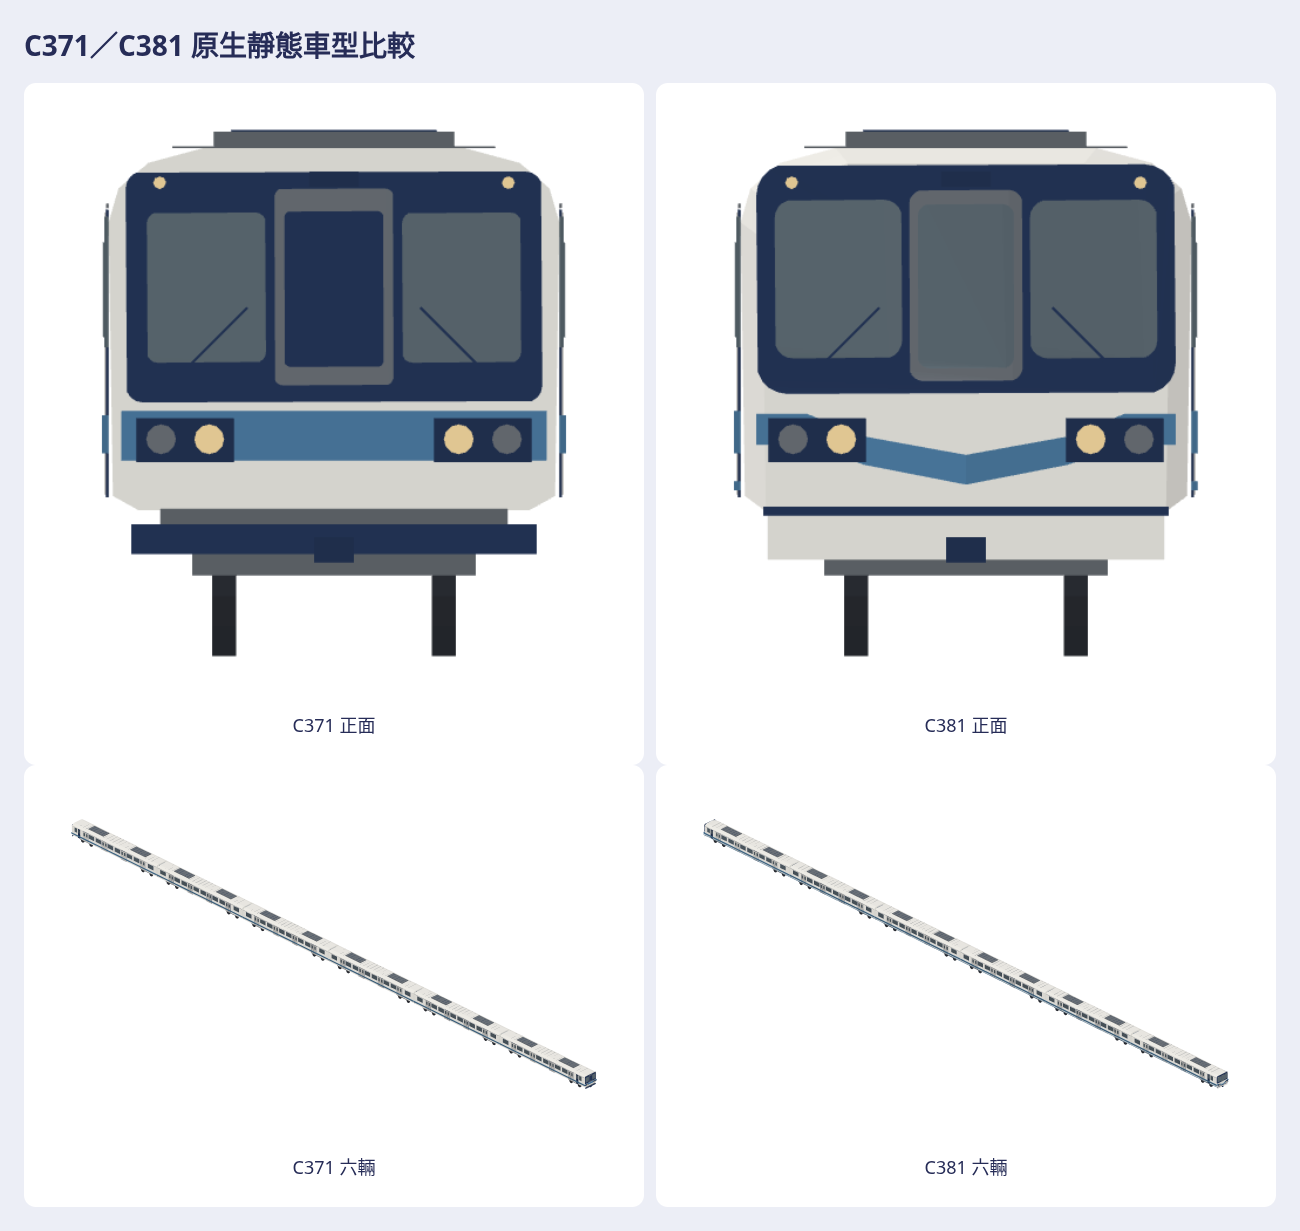
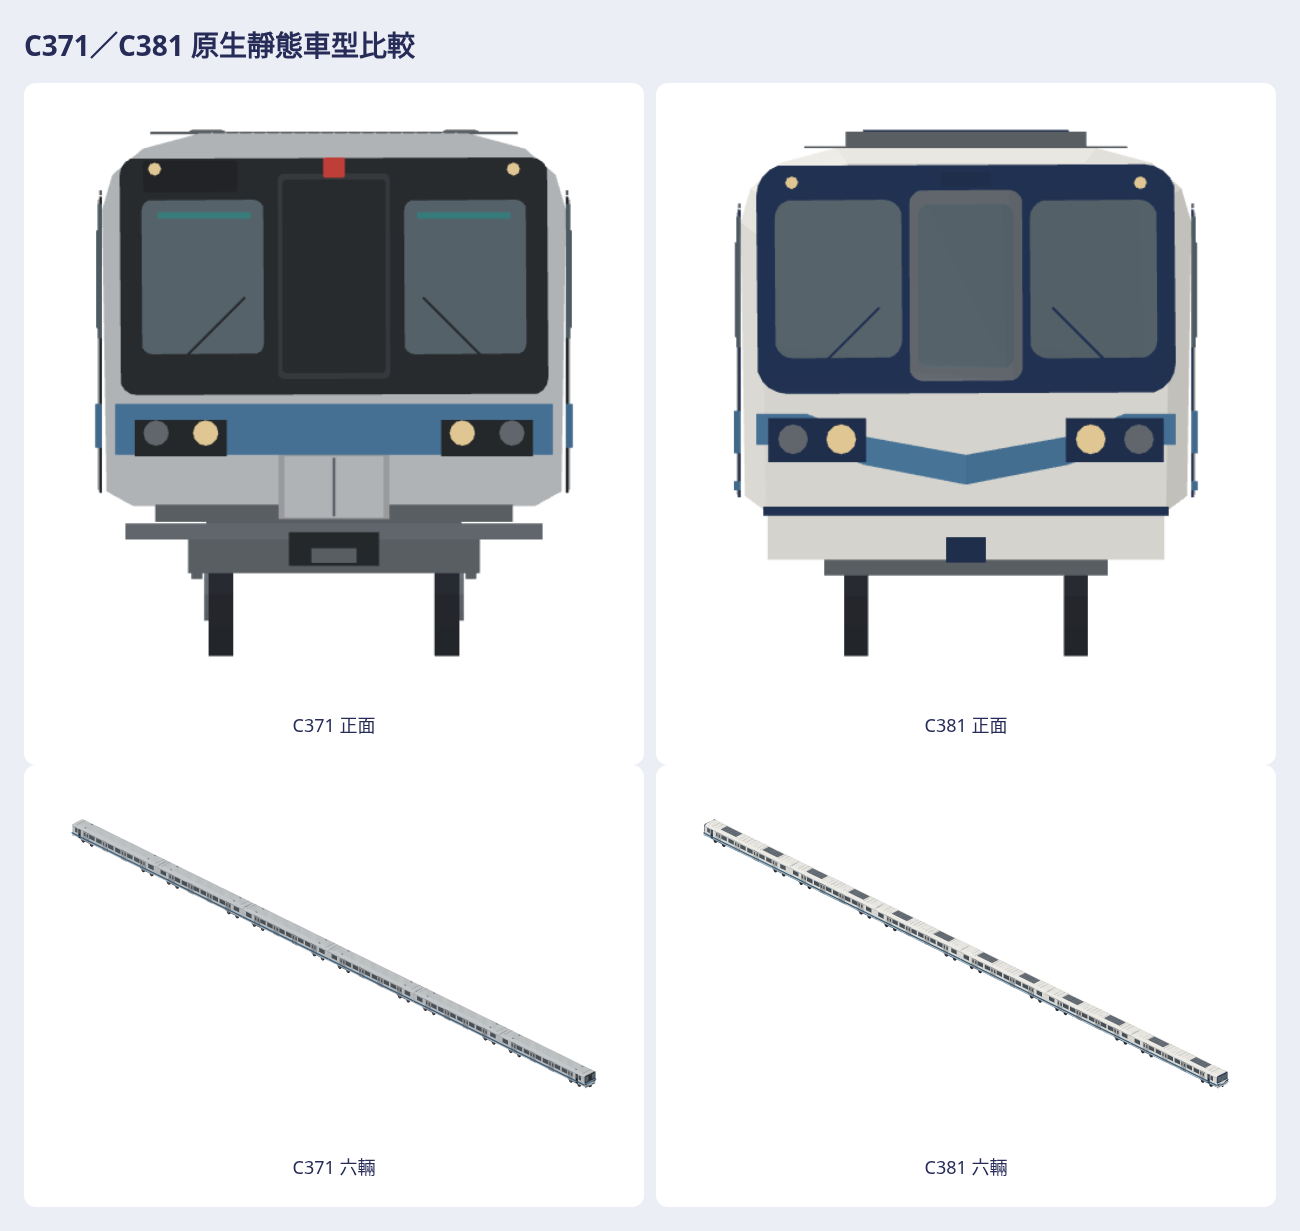
Revise C371 shape against train photos
Agent: Codex

diff --git a/Sources/GamePresentation/Map3DMetroStudyGeometry.swift b/Sources/GamePresentation/Map3DMetroStudyGeometry.swift
@@ -9,7 +9,7 @@ struct MetroStudyGeometry {
     let length: Float
     let body: UInt32
     let blue: UInt32
-    let ink = Map3DPalette.playerRim
+    var ink: UInt32 { curved ? Map3DPalette.playerRim : Map3DColor.shaded(Map3DPalette.tankStand,0.42) }
     let glass = Map3DColor.shaded(Map3DPalette.glazing, 0.62)
     let steel = StationKitBuilder.steel
     var half: Float { length / 2 - 0.18 }
@@ -87,23 +87,46 @@ struct MetroStudyGeometry {
         if curved {
             panel(0,1.43,length-0.10,0.30,blue,0.046)
             panel(0,1.17,length-0.10,0.065,blue,0.046)
-        } else { panel(0,1.43,length-0.10,0.27,blue,0.047) }
+        } else { panel(0,1.43,length-0.10,0.30,blue,0.047) }
         panel(0,3.16,length-0.35,0.035,steel,0.018)
         for bx:Float in [-8.25,8.25] {
             kit.box(bx,0.57,0,3.35,2.0,0.24,steel)
             kit.box(bx,0.75,0,1.35,1.60,0.11,ink)
             for dx:Float in [-1.15,1.15] { for side:Float in [-1,1] {
                 kit.civicTube(Map3DPoint(bx+dx,0.425,side*0.69),Map3DPoint(bx+dx,0.425,side*0.86),radius:0.425,color:Map3DStreetModel.tyre,sides:12)
+                if !curved {
+                    kit.civicTube(Map3DPoint(bx+dx,0.425,side*0.86),Map3DPoint(bx+dx,0.425,side*0.89),radius:0.19,color:steel,sides:10)
+                }
             } }
+            if !curved {
+                for side:Float in [-1,1] { kit.box(bx,0.53,side*0.94,3.00,0.075,0.18,steel) }
+            }
         }
         for x:Float in trailer ? [-4.0,0,4.0] : [-4.6,-1.6,1.6,4.6] { kit.box(x,0.60,0,2.2,1.75,0.34,steel) }
-        for x:Float in [-5.75,5.75] {
-            kit.box(x,3.595,0,4.1,1.7,0.105,steel)
-            for delta:Float in [-1.42,-0.72,0,0.72,1.42] { kit.box(x+delta,3.701,0,0.045,1.45,0.012,ink) }
-        }
-        for i in -12...12 {
-            let x=Float(i)*0.82
-            if abs(x+5.75)>2.3 && abs(x-5.75)>2.3 { kit.box(x,3.584,0,0.025,2.28,0.012,steel) }
+        if curved {
+            for x:Float in [-5.75,5.75] {
+                kit.box(x,3.595,0,4.1,1.7,0.105,steel)
+                for delta:Float in [-1.42,-0.72,0,0.72,1.42] { kit.box(x+delta,3.701,0,0.045,1.45,0.012,ink) }
+            }
+            for i in -12...12 {
+                let x=Float(i)*0.82
+                if abs(x+5.75)>2.3 && abs(x-5.75)>2.3 { kit.box(x,3.584,0,0.025,2.28,0.012,steel) }
+            }
+        } else {
+            // C371 photos show continuous corrugation on the low roof,
+            // with a few flush service grilles, not two exposed HVAC blocks.
+            let roof=Map3DPalette.shedWalls[2]
+            for i in -9...9 {
+                let z=Float(i)*0.093
+                kit.box(-0.15,3.579,z,length-1.25,0.018,0.012,roof)
+            }
+            for x:Float in [-8.65,8.65] {
+                for side:Float in [-1,1] {
+                    kit.box(x,3.579,side*0.87,0.43,0.24,0.025,steel)
+                    for step:Float in [-0.12,0.12] { kit.box(x+step,3.601,side*0.87,0.025,0.21,0.008,ink) }
+                }
+            }
+            for x:Float in [-10.9,10.7] { kit.box(x,3.579,0,0.045,2.52,0.018,steel) }
         }
         for x:Float in [-half+0.04,half-0.04] where x < 0 || !cab { kit.box(x,1.03,0,0.13,1.5,2.30,ink) }
         for end:Float in [-1,1] { kit.box(end*(length/2-0.015),0.66,0,0.15,0.28,0.18,ink) }
@@ -135,24 +158,38 @@ struct MetroStudyGeometry {
                     let r:Float = sign < 0 ? -0.48 : 1.32
                     frontPatch(roundRect(l,r,2.07,3.13,0.075),glass,lift:0.025)
                 }
-                frontPatch(roundRect(-0.42,0.42,1.91,3.30,0.06),steel,lift:0.026)
-                frontPatch(roundRect(-0.35,0.35,2.04,3.14,0.045),ink,lift:0.042)
+                frontPatch(roundRect(-0.385,0.385,1.90,3.31,0.045),Map3DColor.shaded(steel,0.55),lift:0.024)
+                frontPatch(roundRect(-0.355,0.355,1.94,3.27,0.035),ink,lift:0.041)
+                // The dark upper sign bay, unlettered to avoid route identity,
+                // and the small red centre marker sit within the front mask.
+                frontPatch(roundRect(0.66,1.31,3.18,3.40,0.025),Map3DColor.shaded(ink,0.82),lift:0.022)
+                frontPatch(roundRect(-0.075,0.075,3.28,3.42,0.018),Map3DColor.rgb(0xD9473F),lift:0.024)
                 frontPatch([(1.38,-1.50),(1.38,1.50),(1.73,1.50),(1.73,-1.50)],blue,lift:0.045)
-                frontPatch([(0.72,-1.43),(0.72,1.43),(0.93,1.43),(0.93,-1.43)],ink,lift:0.045)
+                frontPatch([(0.80,-1.43),(0.80,1.43),(0.91,1.43),(0.91,-1.43)],steel,lift:0.045)
+                // The gangway continues below the black glazing into the
+                // silver apron; the blue band stays continuous across it.
+                frontPatch([(0.94,-0.38),(0.94,0.38),(1.38,0.38),(1.38,-0.38)],Map3DColor.shaded(body,0.86),lift:0.061)
+                frontPatch([(0.95,-0.34),(0.95,0.34),(1.37,0.34),(1.37,-0.34)],body,lift:0.073)
+                frontPatch([(0.96,-0.010),(0.96,0.010),(1.36,0.010),(1.36,-0.010)],steel,lift:0.083)
+                for side:Float in [-1,1] {
+                    frontPatch([(3.00,side*0.57),(3.00,side*1.21),(3.045,side*1.21),(3.045,side*0.57)],Map3DPalette.shopAwnings[0],lift:0.053)
+                }
+                kit.box(half+0.13,0.62,0,0.21,0.62,0.23,ink)
+                kit.box(half+0.28,0.64,0,0.17,0.31,0.10,steel)
             }
             // Distinct headlamp pods; two visible lenses per side and supported wipers.
             for sign:Float in [-1,1] {
                 let x=half+(curved ? 0.225 : 0.085)
                 let z=sign*1.05
-                kit.box(x,1.37,z,0.05,0.69,0.31,ink)
+                kit.box(x,1.37,z,0.05,curved ? 0.69 : 0.63,curved ? 0.31 : 0.25,ink)
                 for shift:Float in [-0.17,0.17] {
                     let zz=z+shift
-                    kit.civicTube(Map3DPoint(x+0.035,1.53,zz),Map3DPoint(x+0.057,1.53,zz),radius:0.105,color:shift*sign<0 ? Map3DPalette.tunnelLamp : steel,sides:12)
+                    kit.civicTube(Map3DPoint(x+0.035,1.53,zz),Map3DPoint(x+0.057,1.53,zz),radius:curved ? 0.105 : 0.087,color:shift*sign<0 ? Map3DPalette.tunnelLamp : steel,sides:12)
                 }
                 kit.civicTube(Map3DPoint(x,3.34,sign*1.23),Map3DPoint(x+0.02,3.34,sign*1.23),radius:0.045,color:Map3DPalette.tunnelLamp,sides:8)
                 kit.beam(Map3DPoint(x+0.04,2.01,sign*1.06),Map3DPoint(x+0.03,2.46,sign*0.61),0.018,ink)
             }
-            kit.box(half+0.10,3.31,0,0.035,0.35,0.11,ink)
+            if curved { kit.box(half+0.10,3.31,0,0.035,0.35,0.11,ink) }
         }
     }
 }

diff --git a/Sources/GamePresentation/Map3DC371.swift b/Sources/GamePresentation/Map3DC371.swift
@@ -11,7 +11,7 @@ public enum Map3DC371 {
             var b=StationKitBuilder();b.add(first,at:.zero,angle:.pi)
             return .flat(named:"c371-rear",from:b.mesh)
         }
-        var b=MetroStudyGeometry(cab:unit == .dm,trailer:unit == .t,curved:false,length:23.5,body:Map3DPalette.shopAwnings[3],blue:Map3DPalette.containers[1])
+        var b=MetroStudyGeometry(cab:unit == .dm,trailer:unit == .t,curved:false,length:23.5,body:Map3DPalette.counters[2],blue:Map3DPalette.containers[1])
         b.build()
         return .flat(named:"c371-"+unit.rawValue,from:b.kit.mesh)
     }

diff --git a/docs/art/c371-c381-2026-10-27/README.md b/docs/art/c371-c381-2026-10-27/README.md
@@ -57,3 +57,18 @@ node tools/c371-c381/standalone.mjs OUT
 | 左右側／屋頂 | C381 側藍帶過薄、屋頂兩片平板 | C381 主藍帶及下細線、車頂肋條與空調格柵 | 節奏改善；不表示已查明設備精確站位 |
 
 對照只用已開啟的實車圖與使用者附件，沒有把圖片、logo 或車號當貼圖。真正上次交付的完整私包與 producer 保留於 `history/true-v4/`，本次另有同相機前後圖。外觀仍未經使用者接受；Simulator／真機 Metal 狀態與 Linux 渲染分開記。
+
+## C371 第二次造型修訂（使用者要求先修 C371）
+
+使用者在對話中再提供三張實車照片。三張均已直接目視：第一張是前右斜視，可辨銀灰車身、連續藍腰帶、近直立深色前罩、雙駕駛窗、中央通道門及下緣連結設備；第二張是高位前斜視，可見車頂沿車長延續的淺肋條、低矮小格柵，以及客門與窗的節奏；第三張是更高位前斜視，可見前端燈與顯示區、屋頂連續線條及六輛列車的大致排列。這些是對話內嵌圖片，沒有可讀的原始檔路徑、作者、授權或 SHA，因此只記錄目視結果，不宣稱量得工程尺寸，也不重發圖片。
+
+依實車照片重做 C371 銀灰車殼、連續低矮的車頂肋條及小格柵、深灰前罩與通道門、較小的燈座和連結器、轉向架側框。C341 的現有輸出只用作模型玩具的輪廓完成度與細節密度標準；車頭、門窗、屋頂和底盤幾何沒有從 C341 移植。C381 的配方不改，須用最終匯出 bytes 核對保持一致。前一個真正交付版本的全包保存在私庫 `history/true-v5/`；`history/true-v4/` 更早的版本亦保留，符合使用者明確要求的前版與完整 ZIP 保存。
+
+| 實車可辨重點 | 本次模型檢查結果 |
+|---|---|
+| 平而近直立的黑色前罩、分離雙窗、中央通道門、藍帶 | 已符合主要分區；通道門和下緣設備仍較簡化 |
+| 銀灰側殼、四組雙門、連續藍帶 | 已符合主要節奏；窗柱與門縫尺寸仍屬照片比例推估 |
+| 連續低矮肋條、分散的小屋頂格柵 | 已修掉錯誤突起的兩個大空調盒；設備型式與站位資料不足 |
+| 台車輪組、框架與車底箱件 | 已增立體輪轂及側框；受電靴和細部管線資料不足 |
+
+這是外觀修訂的製作者檢查，不宣稱使用者已接受。原生／GLB／七向圖／比較圖與 ZIP 均須在最終 producer 提交重建、核對後才稱 VERIFIED。
